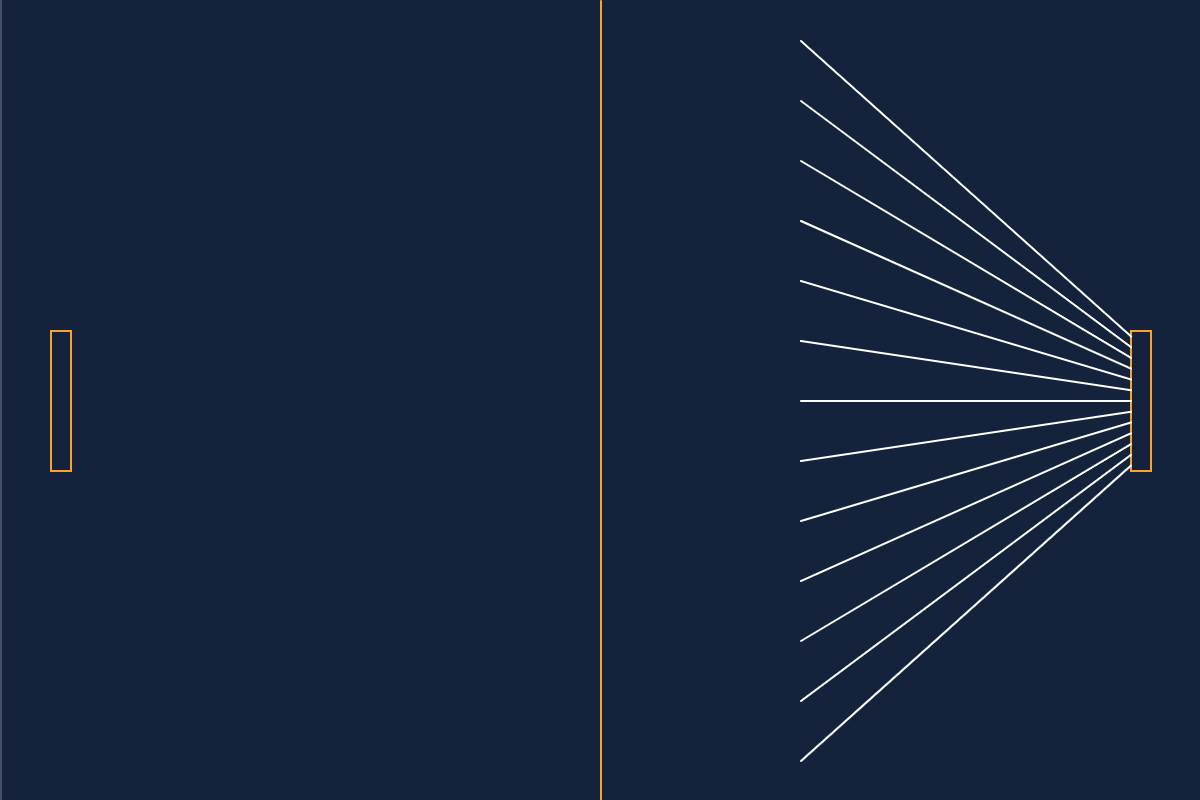
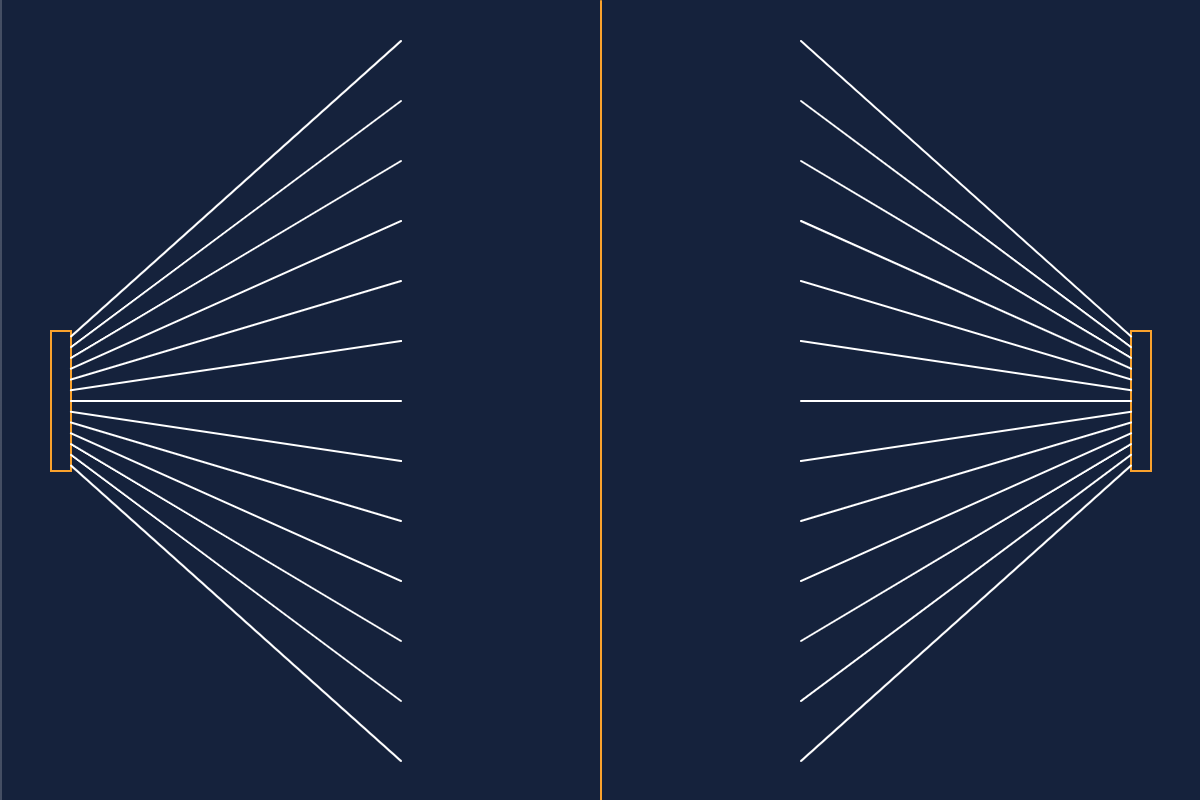
improved the visualization

diff --git a/visualize.js b/visualize.js
@@ -30,4 +30,11 @@ function draw() {
 		p2.y = height / 2 + i * 30;
 		line(p1.x, p1.y, p2.x, p2.y);
 	}
+	for (let i = -floor(lines / 2); i < ceil(lines / 2); i++) {
+		const p1 = createVector(35, height / 2 + d * i);
+		const p2 = createVector();
+		p2.x = 200;
+		p2.y = height / 2 + i * 30;
+		line(p1.x, p1.y, p2.x, p2.y);
+	}
 }

diff --git a/README.md b/README.md
@@ -4,8 +4,8 @@
 
 How to play:
 
--   Left player uses "a" and "z" to move up and down
--   Right player uses "k" and "m" to move up and down
+-   Left player uses "**a**" and "**z**" to move up and down
+-   Right player uses "**k**" and "**m**" to move up and down
 -   The ball reflects at an angle depending on the location it hits the paddle
 
 ---
